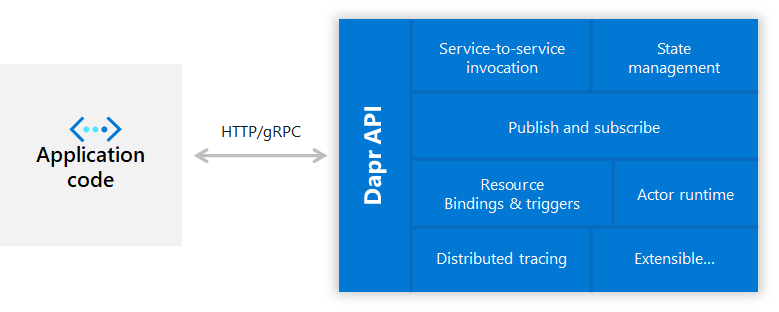
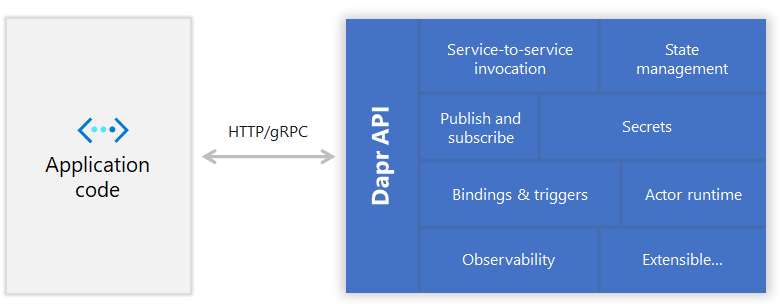
update content for recently new version

diff --git a/content/document/user/faq.md b/content/document/user/faq.md
@@ -1,0 +1,55 @@
+---
+date: 2020-08-01T11:00:00+08:00
+title: Dapr FAQ
+menu:
+  main:
+    parent: "document-user"
+weight: 218
+description : "Dapr FAQ"
+---
+
+https://github.com/dapr/docs/blob/master/FAQ.md
+
+## 网络和服务网格
+
+### 了解Dapr如何与服务网格一起工作
+
+Dapr是一个分布式应用运行时。与服务网格专注于网络问题不同，Dapr专注于提供构建块，使开发者更容易构建微服务。Dapr是以开发者为中心的，而服务网格是以基础设施为中心的。
+
+**Dapr is developer-centric versus service meshes being infrastructure-centric.**
+
+Dapr可以与任何服务网格（如Istio和Linkerd）一起使用。服务网格是一个专门的网络基础设施层，旨在将服务相互连接起来，并提供深入的遥测。**服务网格不会为应用引入新功能**。
+
+这就是Dapr的作用。Dapr是一个建立在http和gRPC上的语言无关的编程模型，它通过开放的API为异步pub-sub、有状态服务、服务发现和调用、actor和分布式跟踪提供分布式系统构建块。Dapr为应用程序的运行时引入了新的功能。服务网格和Dapr都可以作为应用程序的Sidecar服务运行，一个提供网络功能，另一个提供分布式应用能力。
+
+观看[这段视频](https://www.youtube.com/watch?v=xxU68ewRmz8&feature=youtu.be&t=140)，了解Dapr和服务网格如何协同工作。
+
+### 了解 Dapr 如何与服务网格接口 (SMI) 互操作
+
+SMI是一个抽象层，它为不同的服务器网格技术提供了一个通用的API表层。Dapr可以利用任何服务网格技术，包括SMI。
+
+### Dapr、Istio和Linkerd之间的区别
+
+Istio是一个开源的服务网格实现，专注于服务之间的Layer7路由、流量管理和mTLS认证。Istio使用sidecar来拦截进出容器的流量，并对它们执行一套网络策略。
+
+Istio不是一个编程模型，也不关注应用层面的功能，如状态管理、pub-sub、绑定等。这就是Dapr的优势所在。
+
+## Actor
+
+### Dapr与Orleans和Service Fabric Reliable Actors的关系如何？
+
+Dapr中的Actor是基于和Orleans开始的相同的虚拟Actor概念，这意味着它们在被调用时被激活，并在一段时间后被垃圾回收。如果你熟悉Orleans，Dapr的C# actor就会很熟悉。Dapr C# actor是基于 Service Fabric Reliable Actors（也是来自于Orleans），让你能够把Service Fabric中的Reliable Actors迁移到其他托管平台，比如Service Fabric Mesh、Kubernetes或其他内部环境。另外Dapr的意义不仅仅是actor。它为您提供了一套最佳实践构建块，以构建到任何微服务应用程序中。
+
+### Dapr与actor框架有何不同？
+
+虚拟actor功能是Dapr在运行时提供的构建块之一。由于Dapr是编程语言无关的，提供 http/gRPC API，所以可以从任何语言中调用actor。这使得用一种语言编写的actors可以调用用另一种语言编写的actors。
+
+Dapr运行时SDK有特定语言的actor框架。例如.NET SDK就有C#角色。你会发现所有的SDK都有一个适合语言的actor框架。
+
+## 开发语言SDK和框架
+
+### 如果我想使用特定的编程语言或框架，Dapr是否有任何SDK？
+
+为了使Dapr在不同语言下的使用更加自然，它包括了针对Go、Java、JavaScript、.NET和Python的语言专用SDK。这些SDK通过类型化的语言API，而不是调用http/gRPC API来暴露 Dapr构建块中的功能，如保存状态、发布事件或创建actor。这使得你可以用自己选择的语言来编写无状态和有状态的函数和actor的组合。由于这些SDK共享Dapr运行时，你可以获得跨语言的actor和函数支持。
+
+Dapr可以与任何开发框架集成。例如，在Dapr .NET SDK中，你可以找到ASP.NET Core集成，它带来了有状态的路由控制器，可以响应其他服务的pub/sub事件。

diff --git a/content/introduction/index.md b/content/introduction/index.md
@@ -33,7 +33,7 @@ Dapr github首页的介绍是：
 
 下图是 Dapr 的概念模型：
 
-![](images/dapr_conceptual_model.jpg)
+![](images/overview.png)
 
 > 以下内容来自：https://github.com/dapr/dapr
 
@@ -73,8 +73,9 @@ Dapr在线程和状态一致性模型方面很灵活。 如果愿意，可以利
 - 一致的服务到服务发现和调用
 - 选择加入状态模型：强大/最终的一致性，首次写入/最后写入获胜
 - 跨平台虚拟 actor
+- 密钥管理，从安全密钥库中提取密钥。
 - 限速
-- 使用OpenTelemetry的内置分布式跟踪
+- 内置可观测性支持
 - 使用专用的Operator和CRD在Kubernetes上原生运行
 - 通过HTTP和gRPC支持所有编程语言
 - 来自Azure，AWS，GCP的多云，开放式组件（绑定，发布-订阅，状态）
